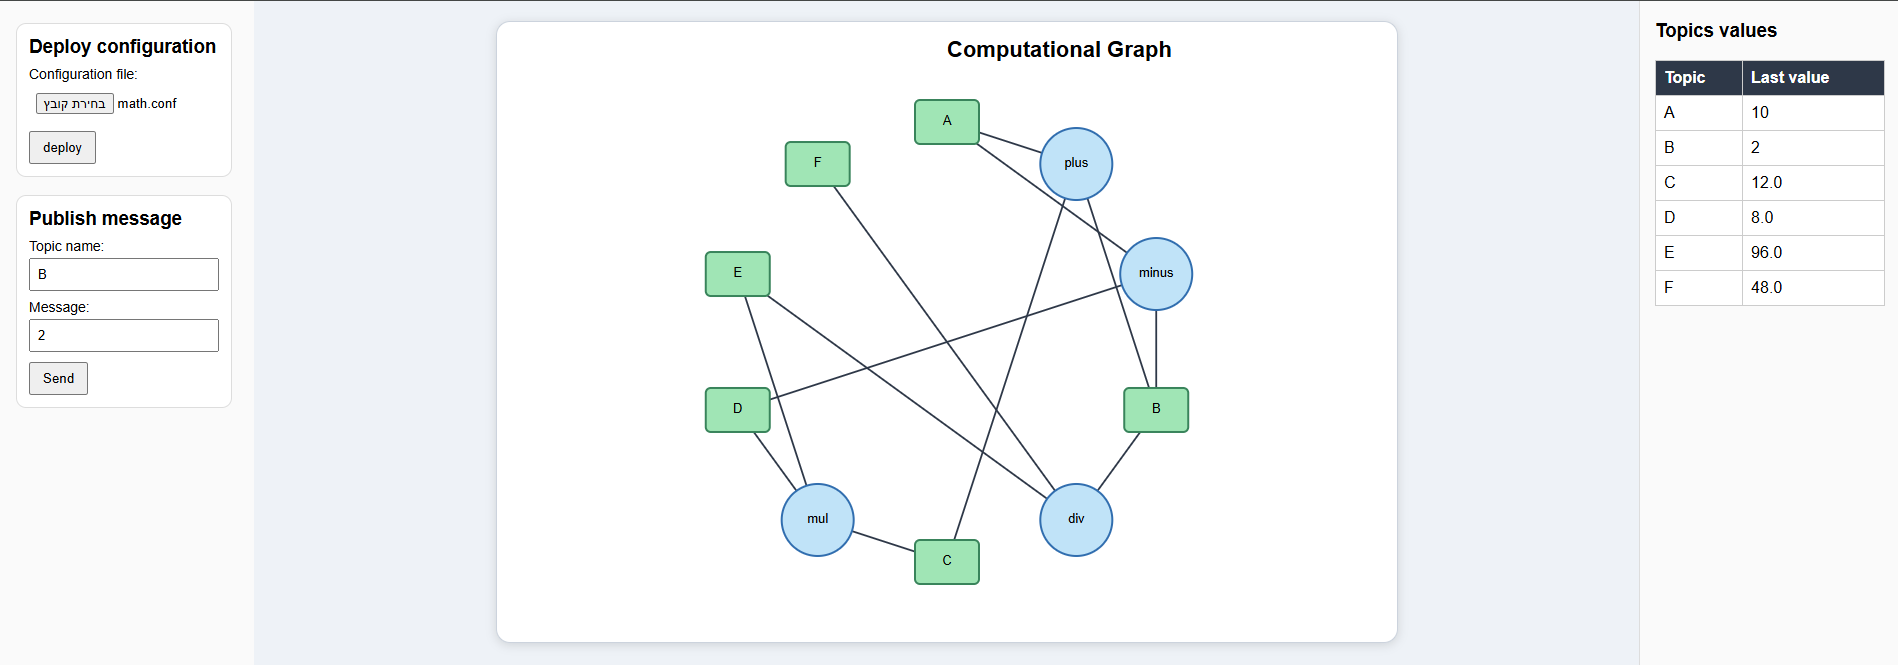
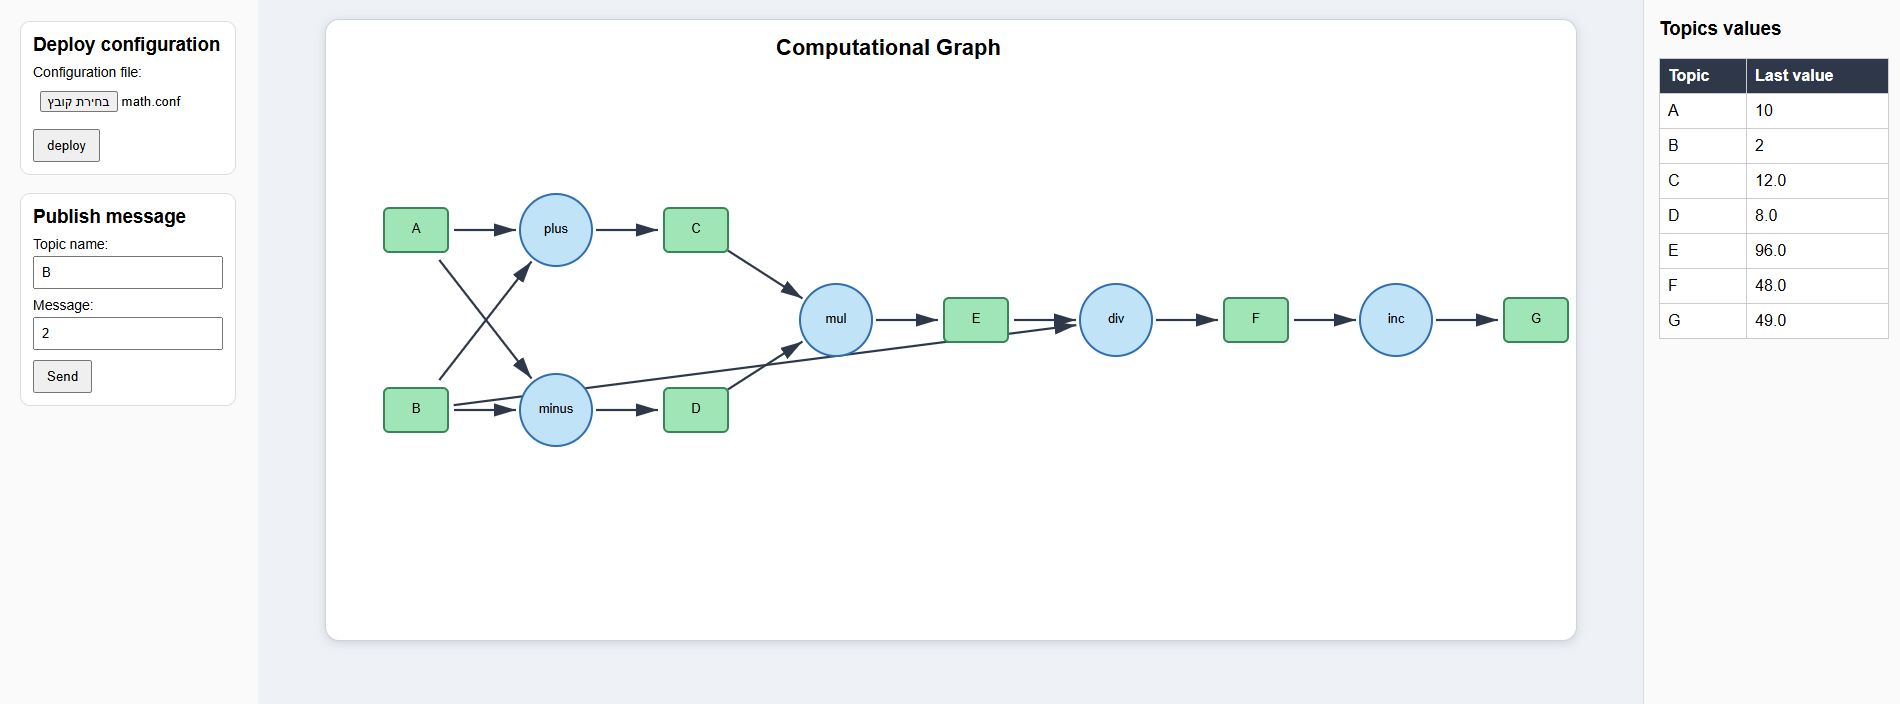
readme update - add inc

diff --git a/src/views/HtmlGraphWriter.java b/src/views/HtmlGraphWriter.java
@@ -1,6 +1,5 @@
 package views;
 
-
 import graph.Graph;
 import graph.Node;
 import graph.Topic;
@@ -31,35 +30,67 @@ public class HtmlGraphWriter {
         Map<Node, double[]> pos = createPositions(nodes);
 
         lines.add("<!DOCTYPE html><html><head><meta charset='UTF-8'><title>Graph</title>");
-        lines.add("<style>body{margin:0;font-family:Arial;background:#eef2f7}.wrap{padding:20px;text-align:center}");
+        lines.add("<style>");
+        lines.add("body{margin:0;font-family:Arial;background:#eef2f7}");
+        lines.add(".wrap{padding:20px;text-align:center}");
         lines.add("svg{background:white;border:1px solid #ccd3dd;border-radius:14px;box-shadow:0 2px 10px #0002}");
-        lines.add(".topic{fill:#9ae6b4;stroke:#2f855a;stroke-width:2}.agent{fill:#bee3f8;stroke:#2b6cb0;stroke-width:2}.edge{stroke:#2d3748;stroke-width:1.8;fill:none}.label{font-size:13px;text-anchor:middle;dominant-baseline:middle}.value{font-size:14px;font-weight:bold;text-anchor:middle}.title{font-size:22px;font-weight:bold}</style></head><body><div class='wrap'>");
-        lines.add("<svg width='900' height='620' viewBox='0 0 900 620'>");
-        lines.add("<defs><marker id='arrow' markerWidth='10' markerHeight='10' refX='8' refY='3' orient='auto'><path d='M0,0 L0,6 L9,3 z' fill='#2d3748'/></marker></defs>");
+        lines.add(".topic{fill:#9ae6b4;stroke:#2f855a;stroke-width:2}");
+        lines.add(".agent{fill:#bee3f8;stroke:#2b6cb0;stroke-width:2}");
+        lines.add(".edge{stroke:#2d3748;stroke-width:2.2;fill:none;marker-end:url(#arrow)}");
+        lines.add(".label{font-size:13px;text-anchor:middle;dominant-baseline:middle}");
+        lines.add(".value{font-size:14px;font-weight:bold;text-anchor:middle}");
+        lines.add(".title{font-size:22px;font-weight:bold}");
+        lines.add("</style></head><body><div class='wrap'>");
+
+        lines.add("<svg width='1250' height='620' viewBox='0 0 1250 620'>");
+
+        lines.add("<defs>");
+        lines.add("<marker id='arrow' markerWidth='12' markerHeight='12' refX='10' refY='3' orient='auto' markerUnits='strokeWidth'>");
+        lines.add("<path d='M0,0 L0,6 L10,3 z' fill='#2d3748'/>");
+        lines.add("</marker>");
+        lines.add("</defs>");
+
         lines.add("<text x='450' y='35' class='title'>Computational Graph</text>");
 
         for (Node from : nodes) {
             double[] p1 = pos.get(from);
-            if (p1 == null) continue;
+            if (p1 == null) {
+                continue;
+            }
+
             for (Node to : from.getEdges()) {
                 double[] p2 = pos.get(to);
-                if (p2 != null) {
-                    lines.add("<line class='edge' x1='" + p1[0] + "' y1='" + p1[1] + "' x2='" + p2[0] + "' y2='" + p2[1] + "' marker-end='url(#arrow)'/>");
+                if (p2 == null) {
+                    continue;
                 }
+
+                double[] edge = shortenEdge(p1[0], p1[1], p2[0], p2[1], radiusOf(from), radiusOf(to));
+
+                lines.add("<line class='edge' x1='" + edge[0] + "' y1='" + edge[1]
+                        + "' x2='" + edge[2] + "' y2='" + edge[3] + "'/>");
             }
         }
 
         for (Node node : nodes) {
             double[] p = pos.get(node);
-            if (p == null) continue;
+            if (p == null) {
+                continue;
+            }
+
             String name = node.getName();
             boolean isTopic = name != null && name.startsWith("T");
             String shown = name == null ? "" : name.substring(Math.min(1, name.length()));
+
             if (isTopic) {
-                lines.add("<rect class='topic' x='" + (p[0] - 32) + "' y='" + (p[1] - 22) + "' width='64' height='44' rx='5'/>");
+                lines.add("<rect class='topic' x='" + (p[0] - 32) + "' y='" + (p[1] - 22)
+                        + "' width='64' height='44' rx='5'/>");
                 lines.add("<text class='label' x='" + p[0] + "' y='" + p[1] + "'>" + esc(shown) + "</text>");
+
                 String val = topicValue(shown);
-                if (!val.isEmpty()) lines.add("<text class='value' x='" + p[0] + "' y='" + (p[1] - 35) + "'>" + esc(val) + "</text>");
+                if (!val.isEmpty()) {
+                    lines.add("<text class='value' x='" + p[0] + "' y='" + (p[1] - 35)
+                            + "'>" + esc(val) + "</text>");
+                }
             } else {
                 lines.add("<circle class='agent' cx='" + p[0] + "' cy='" + p[1] + "' r='36'/>");
                 lines.add("<text class='label' x='" + p[0] + "' y='" + p[1] + "'>" + esc(shown) + "</text>");
@@ -74,16 +105,88 @@ public class HtmlGraphWriter {
         return lines;
     }
 
-    /** Gives every node a position on a circle. */
+    /**
+     * Gives every node a position by columns/layers instead of a circle.
+     * This makes the graph flow from left to right.
+     */
     private static Map<Node, double[]> createPositions(List<Node> nodes) {
         Map<Node, double[]> pos = new HashMap<>();
-        int n = Math.max(nodes.size(), 1);
-        double cx = 450, cy = 320, r = 220;
-        for (int i = 0; i < nodes.size(); i++) {
-            double angle = -Math.PI / 2 + 2 * Math.PI * i / n;
-            pos.put(nodes.get(i), new double[]{cx + r * Math.cos(angle), cy + r * Math.sin(angle)});
+
+        Map<String, double[]> fixed = new HashMap<>();
+
+        fixed.put("TA", new double[]{90, 210});
+        fixed.put("TB", new double[]{90, 390});
+
+        fixed.put("Aplus", new double[]{230, 210});
+        fixed.put("Aminus", new double[]{230, 390});
+
+        fixed.put("TC", new double[]{370, 210});
+        fixed.put("TD", new double[]{370, 390});
+
+        fixed.put("Amul", new double[]{510, 300});
+
+        fixed.put("TE", new double[]{650, 300});
+
+        fixed.put("Adiv", new double[]{790, 300});
+
+        fixed.put("TF", new double[]{930, 300});
+
+        fixed.put("Ainc", new double[]{1070, 300});
+
+        fixed.put("TG", new double[]{1210, 300});
+
+        for (Node node : nodes) {
+            String name = node.getName();
+
+            if (fixed.containsKey(name)) {
+                pos.put(node, fixed.get(name));
+            }
         }
+
+        // fallback for unexpected nodes
+        int extraIndex = 0;
+        for (Node node : nodes) {
+            if (!pos.containsKey(node)) {
+                pos.put(node, new double[]{90 + extraIndex * 120, 560});
+                extraIndex++;
+            }
+        }
+
         return pos;
+    }
+
+    /** Returns approximate node radius for shortening arrow edges. */
+    private static double radiusOf(Node node) {
+        String name = node.getName();
+        boolean isTopic = name != null && name.startsWith("T");
+
+        if (isTopic) {
+            return 38;
+        }
+
+        return 40;
+    }
+
+    /** Shortens a line so the arrow starts and ends near the node borders. */
+    private static double[] shortenEdge(double x1, double y1, double x2, double y2,
+                                        double startRadius, double endRadius) {
+        double dx = x2 - x1;
+        double dy = y2 - y1;
+        double len = Math.sqrt(dx * dx + dy * dy);
+
+        if (len == 0) {
+            return new double[]{x1, y1, x2, y2};
+        }
+
+        double ux = dx / len;
+        double uy = dy / len;
+
+        double sx = x1 + ux * startRadius;
+        double sy = y1 + uy * startRadius;
+        double ex = x2 - ux * endRadius;
+        double ey = y2 - uy * endRadius;
+
+        return new double[]{sx, sy, ex, ey};
     }
 
     /** Gets the last value of a topic. */
@@ -94,6 +197,7 @@ public class HtmlGraphWriter {
                 return msg == null ? "" : msg.asText;
             }
         }
+
         return "";
     }
 